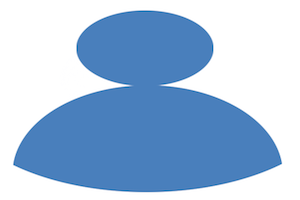
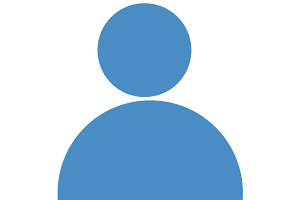
corrected the default profile image

Changed region(s): [[0.03, 0.0, 0.96, 1.0]]

diff --git a/app/assets/stylesheets/application.scss b/app/assets/stylesheets/application.scss
@@ -78,24 +78,24 @@ a:hover {
 
 #howitworks {
   position: absolute;
-  margin-left: 33%;
+  margin-left: 30%;
   background-color: rgba(255, 255, 255, 0.5);
   border-radius: 37px;
   max-width: 435px;
   color: #4A8DC4;
   font-weight: 700;
-  margin-top: 70%;
+  margin-top: 67%;
   font-size: 30px;
 }
 
 #howitworksdescirp {
   position: absolute;
-  margin-left: 36%;
+  margin-left: 34%;
   background-color: rgba(255, 255, 255, 0.5);
   border-radius: 37px;
   color: #4A8DC4;
   font-weight: 700;
-  margin-top: 75%;
+  margin-top: 72%;
   font-size: 20px;
   line-height: 1.6em;
   max-width: 650px;
@@ -108,31 +108,31 @@ a:hover {
   border-radius: 37px;
   color: #79B56E;
   font-weight: 700;
-  margin-top: 111%;
+  margin-top: 106%;
   font-size: 30px;
 }
 
 #whatsonaughtdescript {
   position: absolute;
-  margin-left: 41%;
+  margin-left: 59%;
   background-color: rgba(255, 255, 255, 0.5);
   border-radius: 37px;
   color: #79B56E;
   font-weight: 700;
-  margin-top: 116%;
+  margin-top: 110%;
   font-size: 20px;
   line-height: 1.6em;
-  max-width: 548px;
+  max-width: 500px;
 }
 
 #whoson {
   position: absolute;
   margin-left: 10%;
-  background-color: rgba(255, 255, 255, 0.5);
+  background-color: rgba(255, 255, 255, 0.8);
   border-radius: 37px;
   color: #79B56E;
   font-weight: 700;
-  margin-top: 139%;
+  margin-top: 126%;
   font-size: 30px;
 }
 
@@ -143,11 +143,25 @@ a:hover {
   border-radius: 37px;
   color: #79B56E;
   font-weight: 700;
-  margin-top: 144%;
+  margin-top: 130%;
   font-size: 20px;
   line-height: 1.6em;
   max-width: 548px;
 }
+
+#viewthecommunity {
+  position: absolute;
+  margin-left: 13%;
+  background-color: rgba(255, 255, 255, 0.5);
+  border-radius: 37px;
+  color: #4A8DC4;
+  font-weight: 700;
+  margin-top: 137%;
+  font-size: 20px;
+  line-height: 1.6em;
+  max-width: 548px;
+}
+
 
 .registerbox {
  position: absolute;
@@ -165,7 +179,7 @@ a:hover {
   color: white;
   background-color: #79B56E;
   border-color: #79B56E;
-  margin-left: 40px;
+  margin-left: 80px;
   width: 200px;
   height: 53px;
   font-size: 24px;
@@ -174,13 +188,13 @@ a:hover {
 
 #registertitle {
   color: white;
-  margin-left: 15%;
+  margin-left: 20%;
   margin-top: 5%;
 }
 
 #registerdescrip {
  color: white;
- margin-left: 8%;
+ margin-left: 14%;
  margin-top: 5%;
  font-weight: normal;
 }
